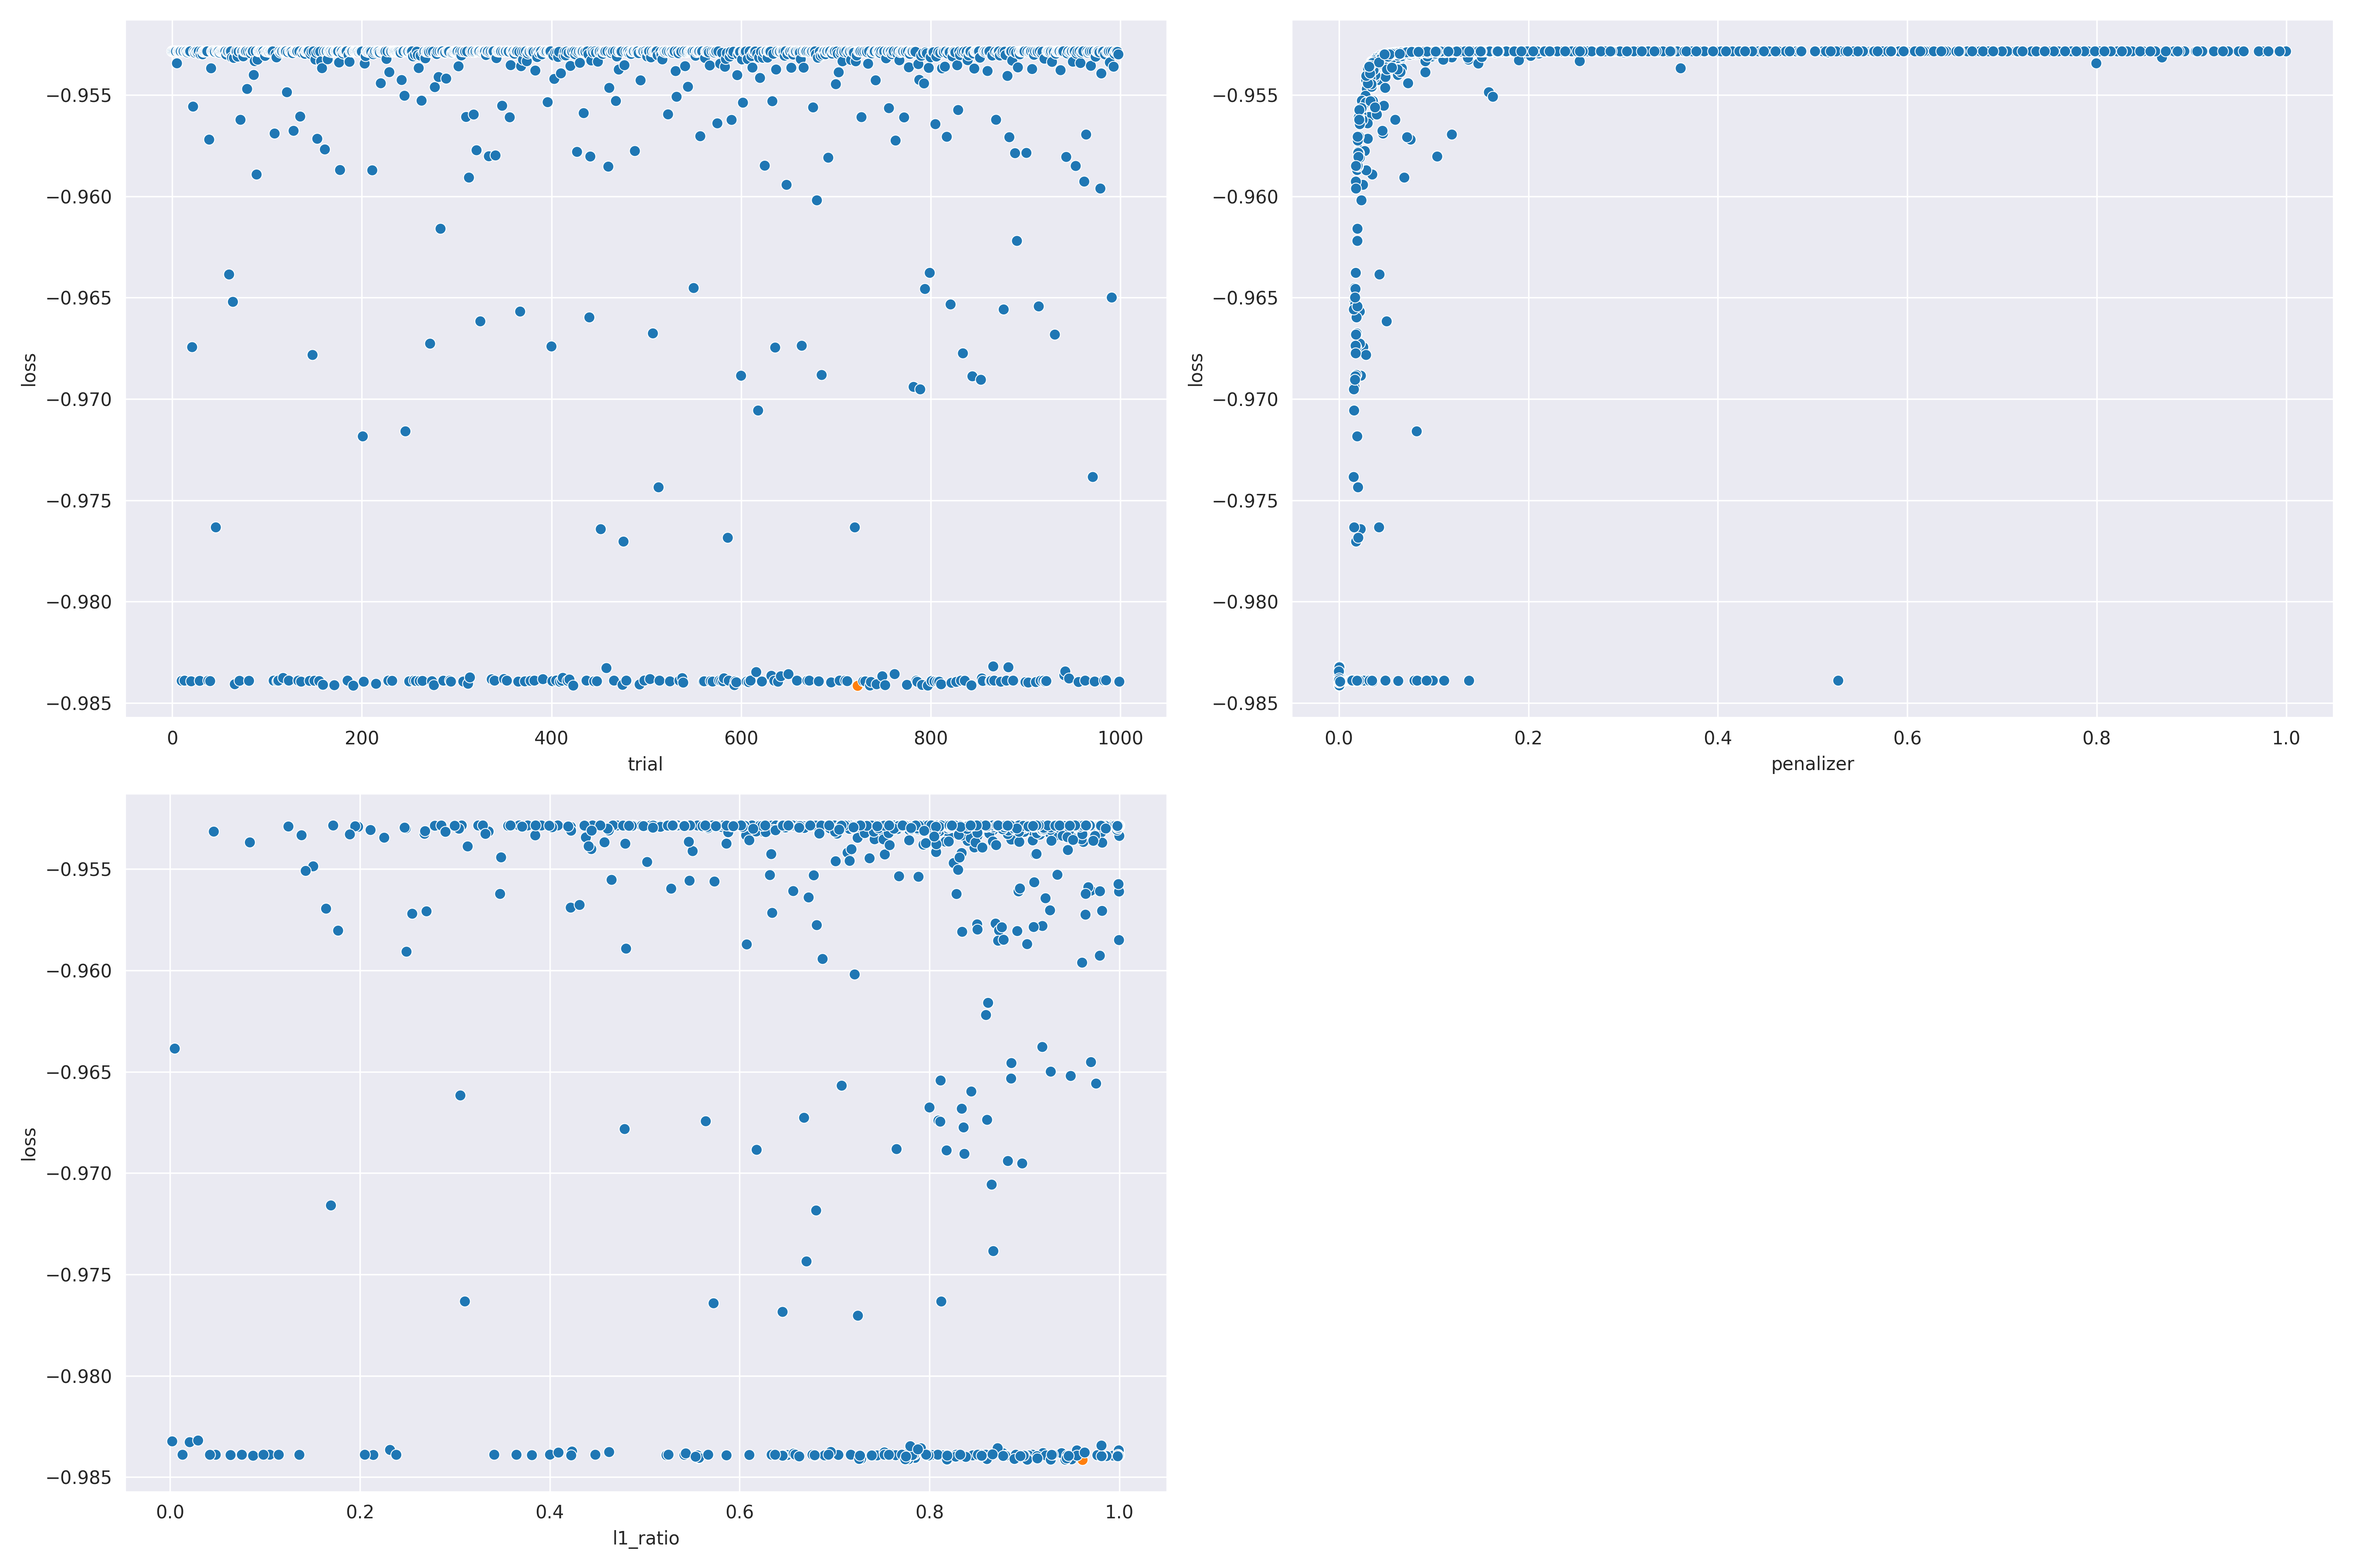
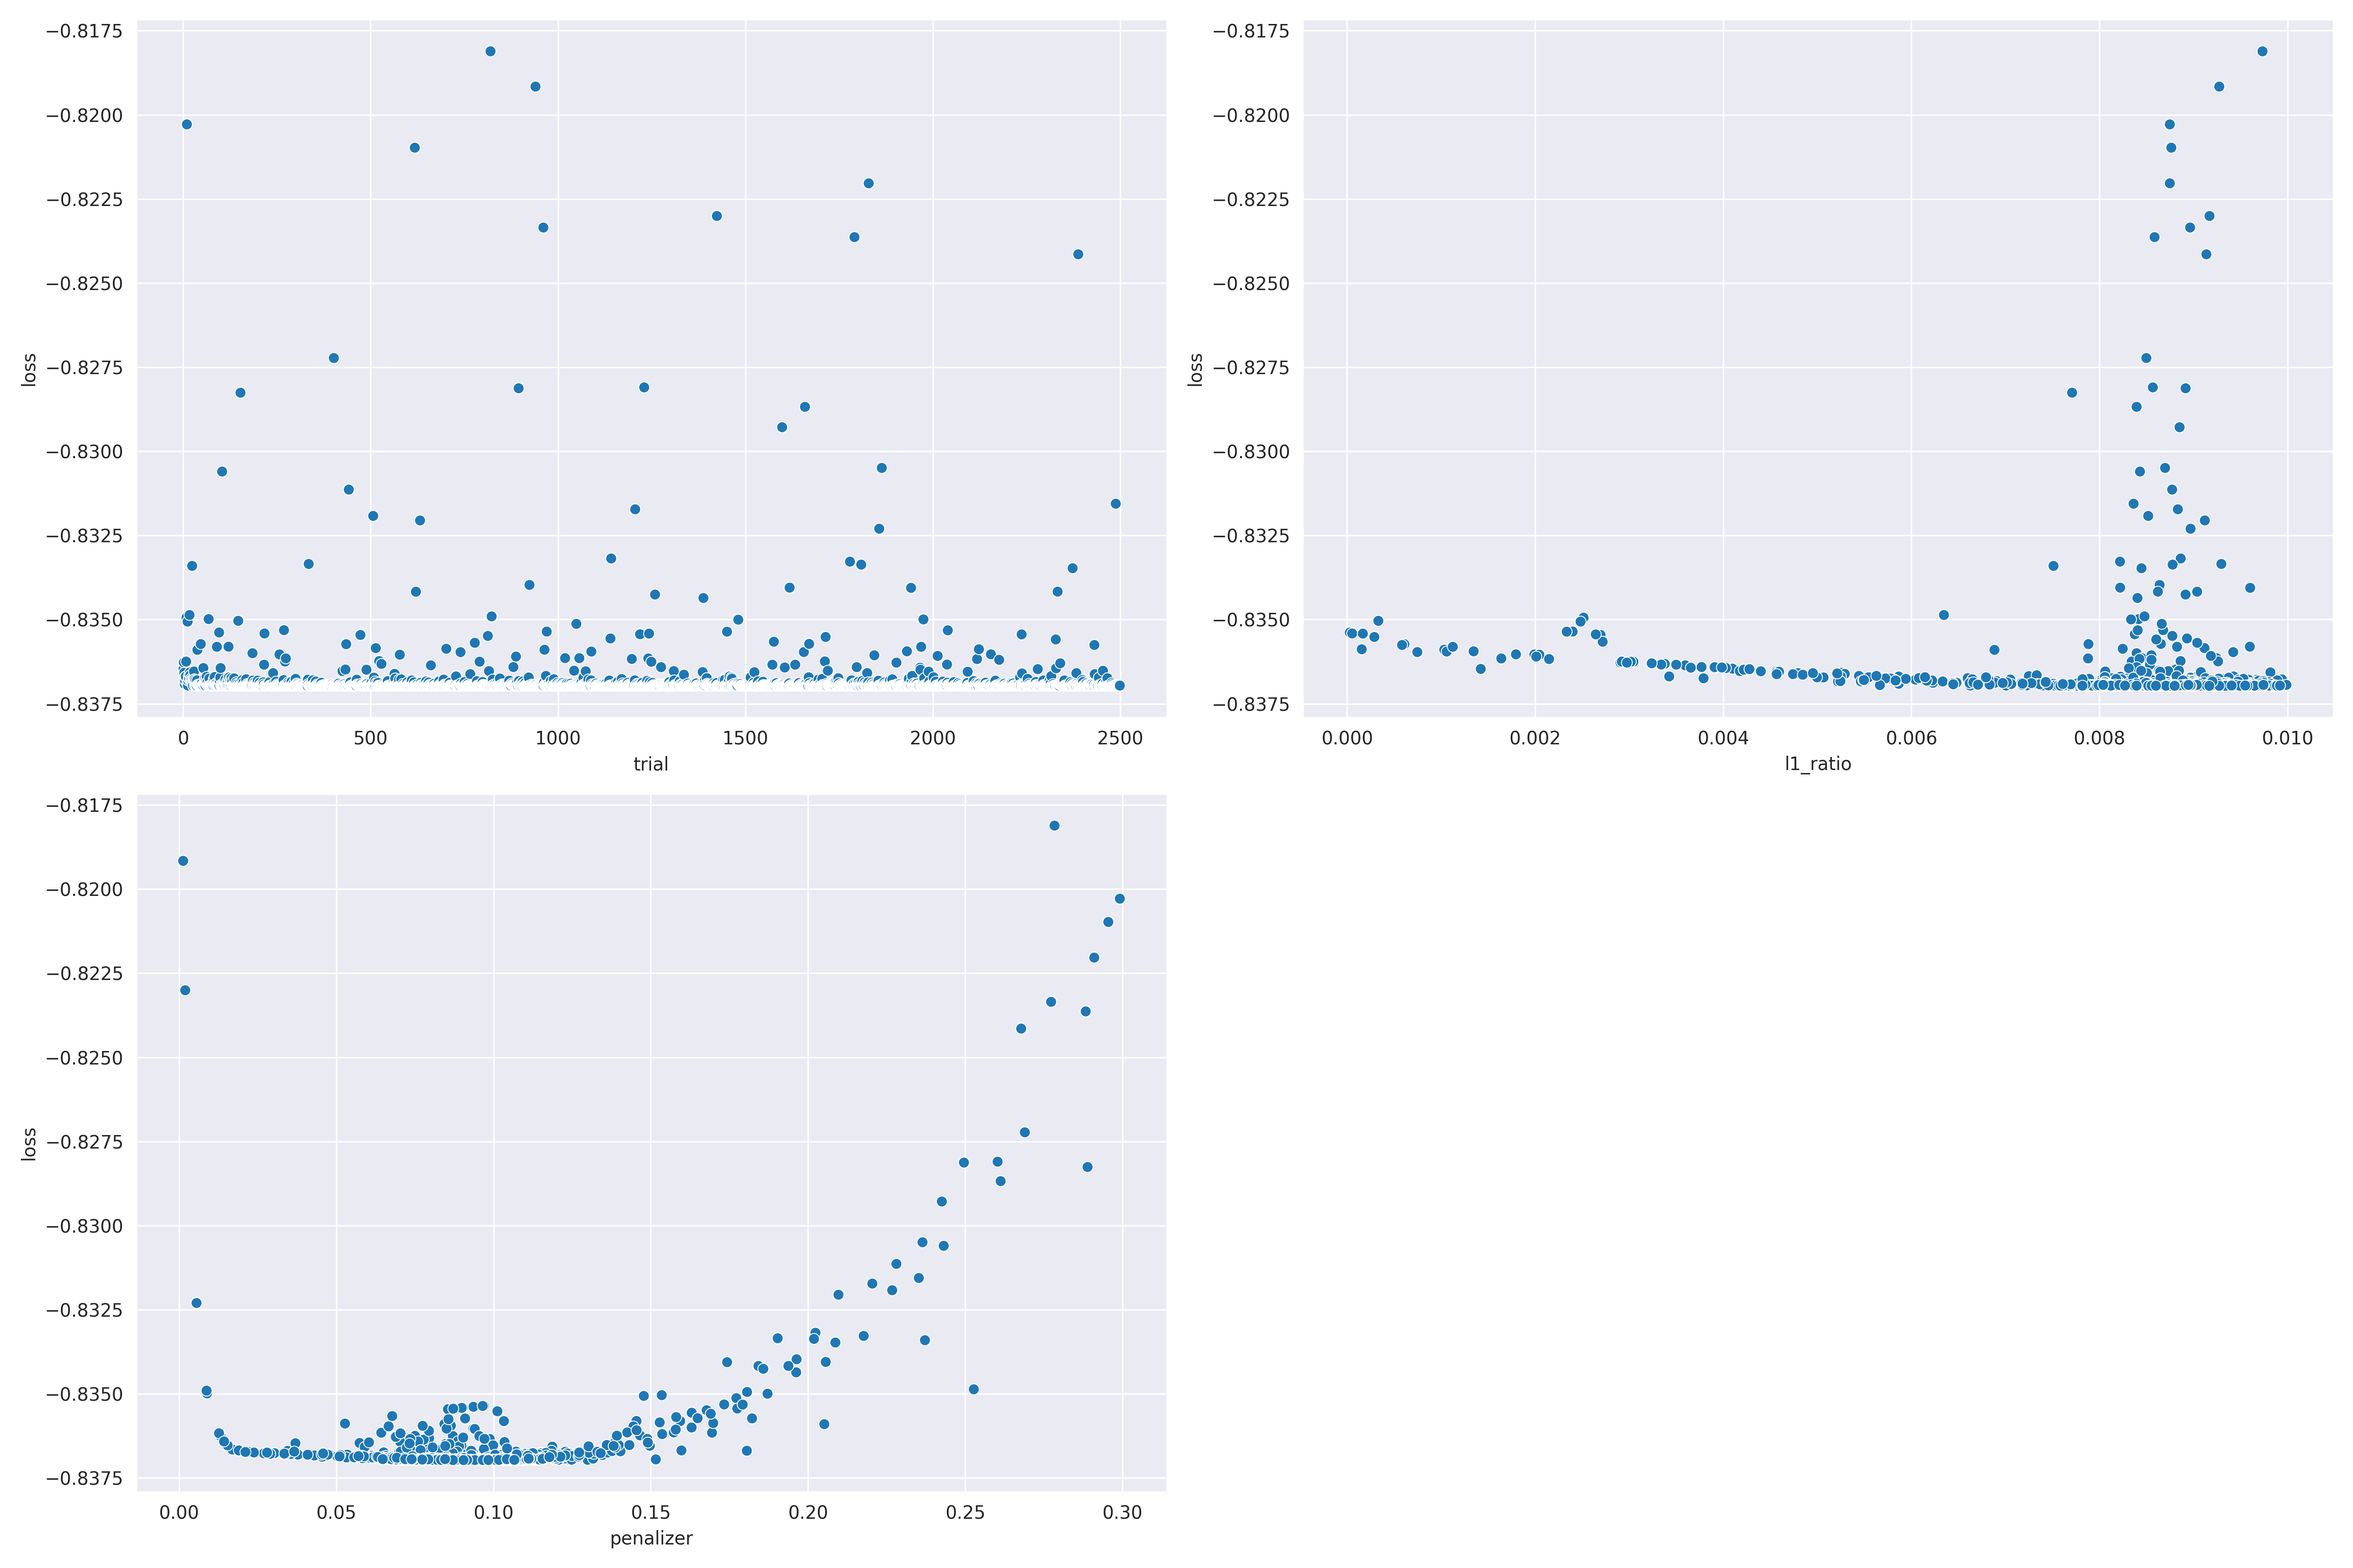
Updating the docs

diff --git a/docs/_model/modelfit.rst b/docs/_model/modelfit.rst
@@ -47,14 +47,25 @@ Lifelines
 
 We will use the following hyperparameter search space for the ``lifelines`` model.
 
-+----------------+---------------------+
-| Hyperparameter | Search space        |
-|                |                     |
-+================+=====================+
-| ``penalizer``  | :math:`Unif(0, 1)`. |
-+----------------+---------------------+
-| ``l1_ratio``   | :math:`Unif(0, 1)`. |
-+----------------+---------------------+
++----------------+--------------------+
+| Hyperparameter | Search space       |
+|                |                    |
++================+====================+
+| ``penalizer``  | :math:`Unif(0, 1)` |
++----------------+--------------------+
+| ``l1_ratio``   | :math:`Unif(0, 1)` |
++----------------+--------------------+
+
+To maximize the tuning search, we limited to the following space after some trials:
+
++----------------+-----------------------+
+| Hyperparameter | Search space          |
+|                |                       |
++================+=======================+
+| ``penalizer``  | :math:`Unif(0, 0.3)`  |
++----------------+-----------------------+
+| ``l1_ratio``   | :math:`Unif(0, 0.01)` |
++----------------+-----------------------+
 
 ~~~~~~~
 XGBoost
@@ -62,30 +73,63 @@ XGBoost
 
 Based on discussions with `heytheredli <https://github.com/heytheredli/>`_ and
 iteratively limiting the range for each parameter to maximize the effectiveness
-of the search, we used the following space:
+of the search, we used the following space to start:
 
-+----------------------+---------------------------+
-| Hyperparameter       | Search space              |
-|                      |                           |
-+======================+===========================+
-| ``learning_rate``    | :math:`Unif(0.0001, 0.1)` |
-+----------------------+---------------------------+
-| ``subsample``        | :math:`Unif(0, 1)`        |
-+----------------------+---------------------------+
-| ``max_delta_step``   | :math:`Unif(0, 1)`        |
-+----------------------+---------------------------+
-| ``max_depth``        | :math:`QUnif(2, 10, 1)`   |
-+----------------------+---------------------------+
-| ``gamma``            | :math:`Unif(0, 10)`       |
-+----------------------+---------------------------+
-| ``reg_alpha``        | :math:`Unif(0, 1)`        |
-+----------------------+---------------------------+
-| ``reg_lambda``       | :math:`Unif(0, 1)`        |
-+----------------------+---------------------------+
-| ``colsample_bytree`` | :math:`Unif(0.0001, 1)`   |
-+----------------------+---------------------------+
-| ``min_child_weight`` | :math:`QUnif(0, 9, 1)`    |
-+----------------------+---------------------------+
++-----------------------+-----------------------------+
+| Hyperparameter        | Search space                |
+|                       |                             |
++=======================+=============================+
+| ``learning_rate``     | :math:`Unif(0, 0.01)`       |
++-----------------------+-----------------------------+
+| ``subsample``         | :math:`Unif(0, 1)`          |
++-----------------------+-----------------------------+
+| ``max_delta_step``    | :math:`Unif(0, 1)`          |
++-----------------------+-----------------------------+
+| ``max_depth``         | :math:`QUnif(2, 15, 1)`     |
++-----------------------+-----------------------------+
+| ``gamma``             | :math:`Unif(0, 1)`          |
++-----------------------+-----------------------------+
+| ``reg_alpha``         | :math:`Unif(0, 1)`          |
++-----------------------+-----------------------------+
+| ``reg_lambda``        | :math:`Unif(0, 1)`          |
++-----------------------+-----------------------------+
+| ``colsample_bytree``  | :math:`Unif(0, 1)`          |
++-----------------------+-----------------------------+
+| ``colsample_bylevel`` | :math:`Unif(0, 1)`          |
++-----------------------+-----------------------------+
+| ``colsample_bynode``  | :math:`Unif(0, 1)`          |
++-----------------------+-----------------------------+
+| ``min_child_weight``  | :math:`QUnif(100, 600, 10)` |
++-----------------------+-----------------------------+
+
+After iteration, we used the following space:
+
++-----------------------+-----------------------------+
+| Hyperparameter        | Search space                |
+|                       |                             |
++=======================+=============================+
+| ``learning_rate``     | 0.01                        |
++-----------------------+-----------------------------+
+| ``subsample``         | :math:`Unif(0.75, 0.9)`     |
++-----------------------+-----------------------------+
+| ``max_delta_step``    | 1                           |
++-----------------------+-----------------------------+
+| ``max_depth``         | :math:`QUnif(5, 15, 1)`     |
++-----------------------+-----------------------------+
+| ``gamma``             | :math:`Unif(0.6, 0.9)`      |
++-----------------------+-----------------------------+
+| ``reg_alpha``         | :math:`Unif(0, 0.1)`        |
++-----------------------+-----------------------------+
+| ``reg_lambda``        | :math:`Unif(0.1, 0.3)`      |
++-----------------------+-----------------------------+
+| ``colsample_bytree``  | :math:`Unif(0.3, 0.7)`      |
++-----------------------+-----------------------------+
+| ``colsample_bylevel`` | :math:`Unif(0.4, 0.6)`      |
++-----------------------+-----------------------------+
+| ``colsample_bynode``  | :math:`Unif(0.7, 1)`        |
++-----------------------+-----------------------------+
+| ``min_child_weight``  | :math:`QUnif(450, 480, 1)`  |
++-----------------------+-----------------------------+
 
 ----------------
 Model evaluation

diff --git a/docs/_model/performance.rst b/docs/_model/performance.rst
@@ -6,9 +6,11 @@ Performance
 Overview
 --------
 
-* The XGBoost and Lifelines models are performing similarly.
-* Both models perform similarly to the NBA's win probability, with a noticeable uptick in
-  pre-game performance.
+* Both models perform better (on average) than the NBA's model, with a particular advantage in
+  early game prediction.
+* The Lifelines model far outperforms the XGBoost model.
+
+For generating player ratings, we will use the Lifelines model.
 
 -----------
 Performance
@@ -16,7 +18,8 @@ Performance
 
 .. important::
 
-    At this time the models have been trained on the 2015-16, 2016-17, 2017-18, and 2018-19 seasons.
+    At this time the models have been trained on data from the 2010-11 through the 2019-20 seasons
+    (pre-bubble).
 
 Figure 1 shows the AUROC over game-time for each model.
 
@@ -33,28 +36,28 @@ model.
 
 Overall, the average AUROC lift for each model is summarized below:
 
-+-----------+---------+
-| Model     | Lift    |
-|           |         |
-+===========+=========+
-| XGBoost   | 0.00149 |
-+-----------+---------+
-| Lifelines | 0.00437 |
-+-----------+---------+
++-----------+---------------+--------------------------------+
+| Model     | Average AUROC | Percentage lift over NBA model |
+|           |               |                                |
++===========+===============+================================+
+| XGBoost   | 0.822         | 3.974%                         |
++-----------+---------------+--------------------------------+
+| Lifelines | 0.845         | 6.888%                         |
++-----------+---------------+--------------------------------+
 
 ---------------------
 Hyperparameter tuning
 ---------------------
 
 Figure 3 shows the hyperparameter tuning results for the ``lifelines`` model. The tuning was done
-using 1 000 evaluations.
+using 5 000 evaluations.
 
 .. image:: ../_static/lifelines-tuning.png
     :align: center
     :alt: Figure 3
 
 Figure 4 shows the hyperparameter tuning results for the ``xgboost`` model. The tuning was done
-using 10 000 evaluations.
+using 5 000 evaluations.
 
 .. image:: ../_static/xgboost-tuning.png
     :align: center
